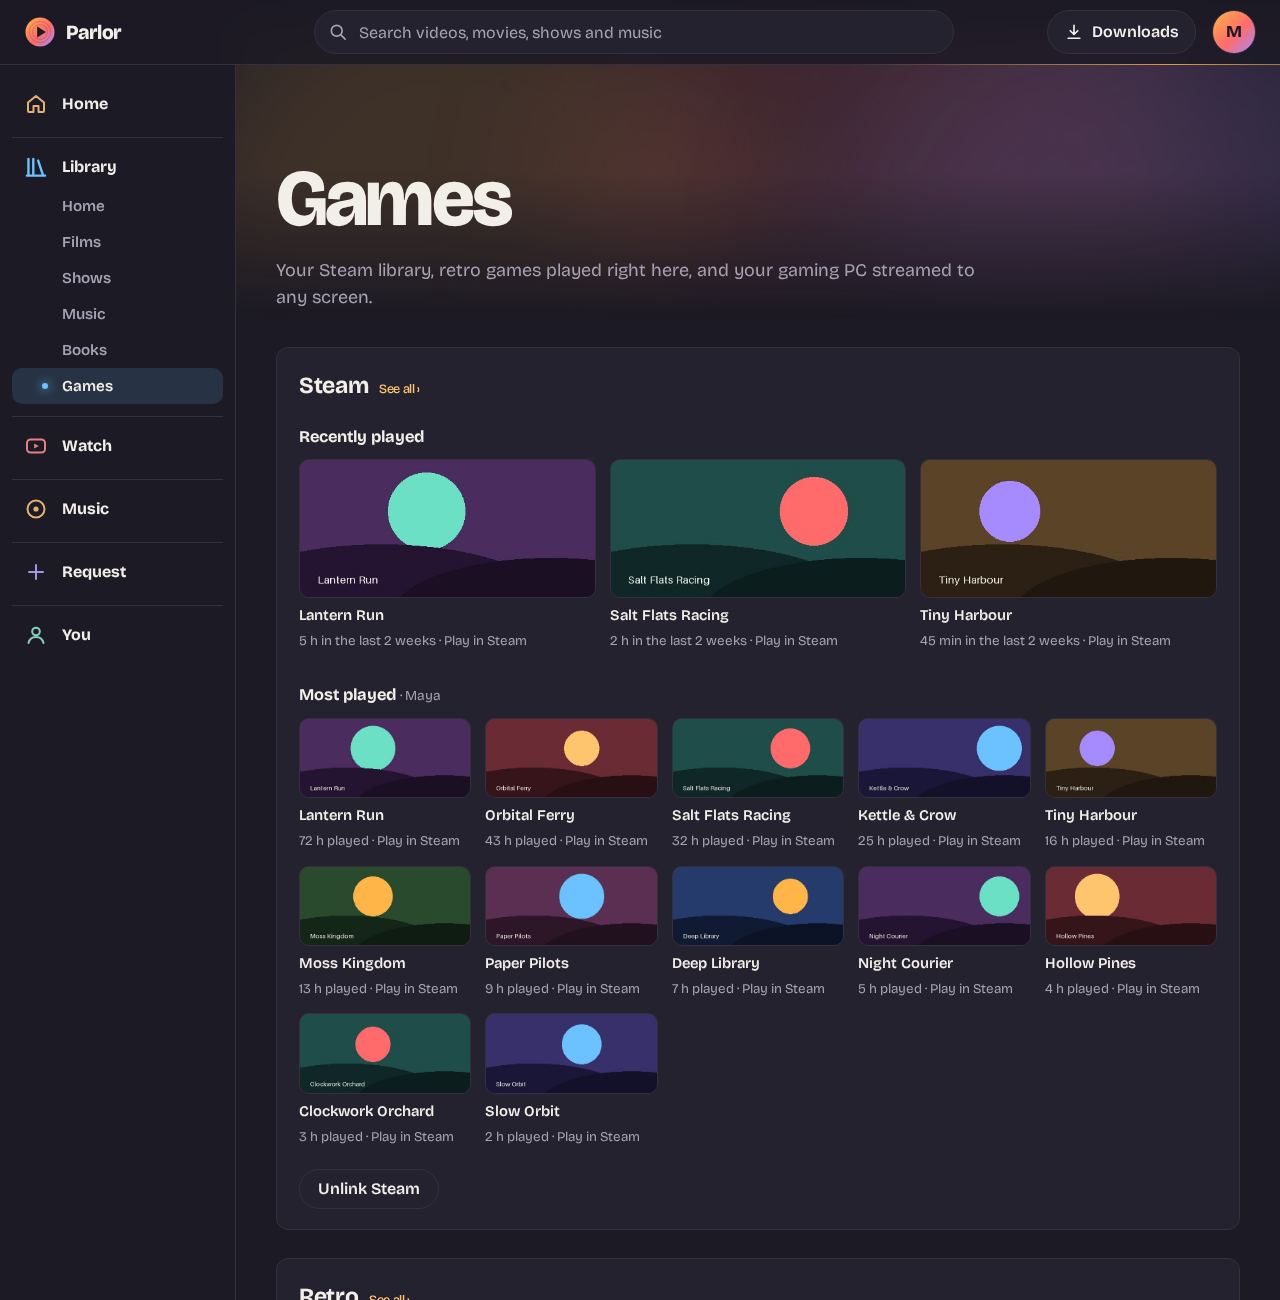
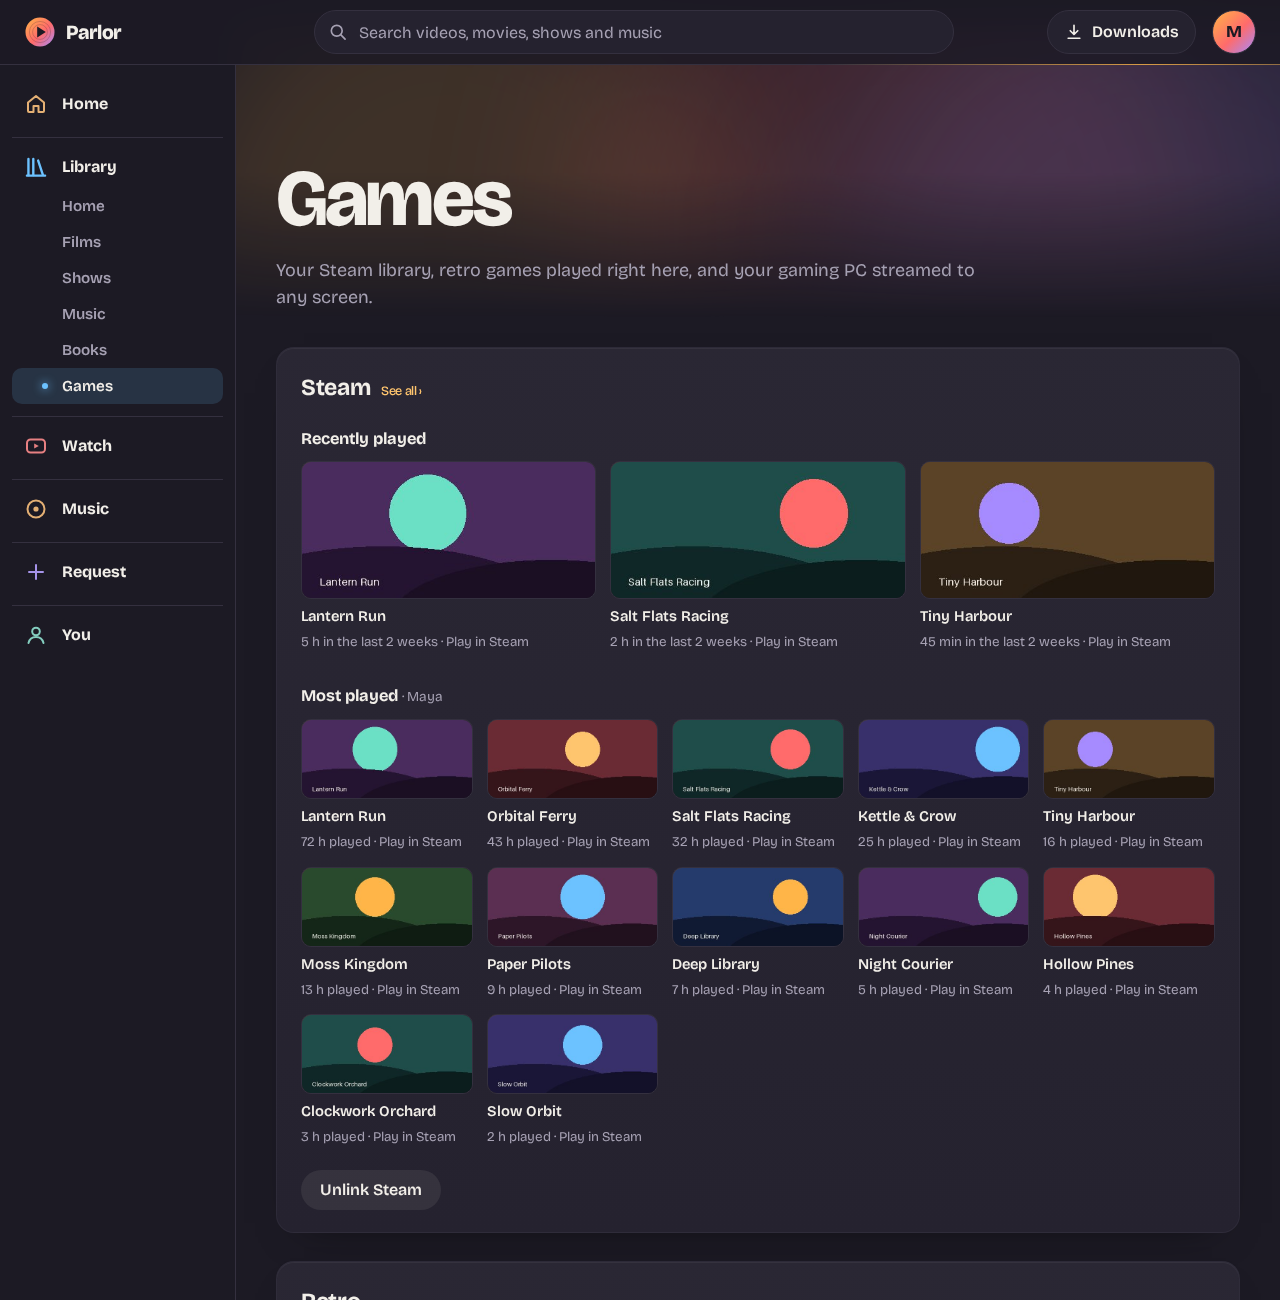
The phone and computer site in the TV's look: every card lifts and glows in its section's colour, buttons are tonal, tick boxes are switches, panels are soft cards, a page rises in as it opens, the phone's tab bar, player and queue float; light mode keeps 3:1, a picture that fails to load leaves its
Claude-Session: https://claude.ai/code/session_01Dqw49fkLDWJasjeWwvYwpP
Sampo-Task: T-0203
Unproven: docs, meaning, red

diff --git a/app/static/app.css b/app/static/app.css
@@ -1385,7 +1385,6 @@ body.docked .tvbar { bottom: 104px; }
 .setbar { display: flex; flex-wrap: wrap; align-items: end; gap: 12px 14px; margin: 26px 0 24px; padding: 14px 16px; border: 1px solid var(--line); border-radius: 12px; background: var(--raise); }
 .setbar label { display: grid; gap: 4px; font-size: .8rem; font-weight: 600; color: var(--dim); }
 .setbar label.check { display: flex; align-items: center; gap: 8px; height: 40px; font-size: .95rem; color: var(--text); }
-.setbar label.check input { width: 18px; height: 18px; accent-color: var(--accent); }
 .setbar .input { height: 40px; } .setbar input[type=number] { width: 6.5em; }
 .setbar .grow { flex: 1; } .setbar > strong { align-self: center; } .setbar > small { align-self: center; color: var(--dim); }
 .partof { display: flex; align-items: center; gap: 14px; margin-top: 28px; padding: 14px 18px; border: 1px solid var(--line); border-radius: 12px; background: var(--raise); width: fit-content; max-width: 100%; transition: border-color .2s ease; }
@@ -1406,3 +1405,85 @@ dialog.sheet h2 { margin: 0 0 6px; } dialog.sheet p { margin: 6px 0 0; } dialog.
 @media (prefers-reduced-motion: reduce) { .logotile, dialog.sheet[open] { animation: none; transition: none; } }
 .mpvnote { display: grid; gap: 10px; justify-items: center; text-align: center; color: #fff; } .mpvnote strong { font-size: 1.3rem; }
 .svc-ask { margin-top: 10px; } .svc-ask p { margin: 0 0 8px; font-size: .88rem; } .svc-ask p a { color: var(--link); text-decoration: underline; text-underline-offset: 3px; }
+
+/* ---------- the TV's look on a phone and a computer (T-0203) ----------
+   Every kind of card is the TV's tile: rounded art that lifts and glows in the section's colour under the pointer or the
+   keyboard, its caption brightening; buttons are solid, tick boxes are switches, panels are soft cards, the phone's tabs
+   float. Only transform, opacity and box-shadow move; all of it stops under reduced motion. */
+:root { --lift: cubic-bezier(.2, .8, .2, 1); --glow: 0 0 0 2px var(--accent), 0 18px 44px -10px color-mix(in oklab, var(--accent) 55%, transparent); }
+:is(.poster, .vthumb, .jart, .cover img, .cover .blank, .gcard .gart) { transition: transform .28s var(--lift), box-shadow .28s var(--lift); }
+.jcard.round .jart, .tile.artist .cover img { border-radius: 50%; }
+.cover img, .cover .blank { border-radius: var(--radius); }
+body:not(.tv) :is(.pcard:is(:hover, :focus-within) .poster, .vcard:is(:hover, :focus-within) .vthumb, .jcard:is(:hover, :focus-within) .jart,
+.tile:is(:hover, :focus-within) .cover :is(img, .blank), .gcard:is(:hover, :focus-within) .gart) { transform: translateY(-4px) scale(1.03); box-shadow: var(--glow); }
+/* a row that scrolls sideways clips what overflows it: room for the lift and the glow, the same place for the cards */
+:is(.strip, .vstrip, .pstrip, .jstrip) { padding: 12px 10px 28px; margin: -12px -10px -20px; scroll-padding-inline: 10px; }
+body:not(.tv) :is(.pcard:hover .poster img, .jcard:hover .jart img) { filter: none; transform: scale(1.04); }
+.vcard:hover .vthumb img { transform: none; }
+body:not(.tv) .cover:hover img { transform: translateY(-4px) scale(1.03); }
+:is(.pcard .t, .jcard .t, .tile .name, .vcard .vmeta > :first-child) { transition: color .2s ease; }
+body:not(.tv) :is(.pcard, .jcard, .tile, .vcard, .gcard):is(:hover, :focus-within) :is(.t, .name, .gname, .vmeta > :first-child) { color: var(--accent-ink, var(--accent)); }
+body:not(.tv) :is(.pcard, .jcard, .tile, .vcard, .gcard):active :is(.poster, .vthumb, .jart, .cover img, .gart) { transform: scale(.98); transition-duration: .1s; }
+:is(.poster, .vthumb, .jart, .cover) a:focus-visible { outline: none; }
+
+/* buttons: solid and tonal, never an outline */
+.ghost, .ghost-round { border-color: transparent; background: color-mix(in oklab, var(--text) 8%, transparent); transition: background-color .15s ease, transform .12s ease, color .15s ease; }
+.ghost:hover, .ghost-round:hover, .ghost-round[aria-expanded="true"] { border-color: transparent; background: color-mix(in oklab, var(--text) 14%, transparent); }
+.ghost:active, .ghost-round:active { transform: scale(.96); }
+.ghost.on { border-color: transparent; background: color-mix(in oklab, var(--accent) 20%, transparent); color: var(--accent-ink, var(--accent)); }
+.ghost.danger:hover { border-color: transparent; background: color-mix(in oklab, var(--bad) 18%, transparent); color: var(--bad); }
+
+/* tick boxes are switches */
+.check input[type="checkbox"], .field input[type="checkbox"] {
+  appearance: none; -webkit-appearance: none; flex: none; position: relative; width: 42px; height: 24px; min-height: 0; margin: 0; padding: 0;
+  border: 0; border-radius: 12px; background: color-mix(in oklab, var(--text) 18%, transparent); cursor: pointer; transition: background-color .2s ease; }
+.check input[type="checkbox"]::before, .field input[type="checkbox"]::before {
+  content: ""; position: absolute; left: 3px; top: 3px; width: 18px; height: 18px; border-radius: 50%; background: #fff;
+  box-shadow: 0 1px 4px rgb(0 0 0 / .35); transition: transform .22s var(--lift); }
+.check input[type="checkbox"]:checked, .field input[type="checkbox"]:checked { background: var(--accent-ink, var(--accent)); }
+.check input[type="checkbox"]:checked::before, .field input[type="checkbox"]:checked::before { transform: translateX(18px); }
+.check input[type="checkbox"]:focus-visible, .field input[type="checkbox"]:focus-visible { outline: 2px solid var(--accent); outline-offset: 2px; }
+/* light mode: the accents are bright for a dark ground; text and controls take a deeper mix (3:1 and up on white) */
+@media (prefers-color-scheme: light) {
+  :root { --accent-ink: color-mix(in oklab, var(--accent) 55%, var(--text)); }
+  .check input[type="checkbox"]:not(:checked), .field input[type="checkbox"]:not(:checked) { background: color-mix(in oklab, var(--text) 42%, transparent); }
+}
+.check input[type="checkbox"]:disabled { opacity: .5; cursor: default; }
+
+/* panels are soft cards; fields sit in the card's own ground */
+.tidy, .panel { border-color: color-mix(in oklab, var(--line) 60%, transparent); border-radius: 18px; padding: 22px 24px;
+  background: linear-gradient(180deg, color-mix(in oklab, var(--raise) 100%, var(--text) 3%), var(--raise));
+  box-shadow: 0 1px 0 color-mix(in oklab, var(--text) 6%, transparent) inset, 0 18px 40px -28px rgb(0 0 0 / .6); }
+.input, .field input:not([type="checkbox"]), .field select, .field textarea, select.input { border-radius: 12px; transition: border-color .15s ease, box-shadow .15s ease; }
+.input:focus, .field input:focus, .field select:focus, .field textarea:focus { box-shadow: 0 0 0 4px color-mix(in oklab, var(--accent) 22%, transparent); }
+
+/* a new page rises in (core.js paint) */
+@keyframes page-in { from { opacity: 0; translate: 0 10px; } }
+.page-in { animation: page-in .34s var(--lift) backwards; } /* backwards, not both: a filled translate would hold fixed children (the player, dialogs) to the page */
+
+@media (max-width: 760px) {
+  .nav { /* the tab bar floats over the page */
+    left: 10px; right: 10px; bottom: calc(10px + env(safe-area-inset-bottom)); padding: 6px; border: 1px solid color-mix(in oklab, var(--line) 70%, transparent);
+    border-radius: 22px; box-shadow: 0 16px 40px -12px rgb(0 0 0 / .6); }
+  .nav a { flex: 1; border-radius: 16px; transition: background-color .2s ease, color .2s ease; }
+  .nav a[aria-current] svg { transform: translateY(-1px); }
+  .toast { bottom: 96px !important; }
+  .dock-line { left: 16px; right: 16px; } /* the dock's corners are round now */
+  .qpanel { left: -1px; right: -1px; bottom: calc(100% + 9px); border-radius: 18px; border-bottom: 1px solid var(--line); } /* the queue floats over the dock, as wide */
+  /* what sits on the tab bar floats with it: the player, the TV and update bars */
+  .dock { left: 10px; right: 10px; bottom: calc(80px + env(safe-area-inset-bottom)); border: 1px solid color-mix(in oklab, var(--line) 70%, transparent);
+    border-radius: 18px; box-shadow: 0 16px 40px -14px rgb(0 0 0 / .6); }
+  .updatebar, .tvbar { bottom: calc(84px + env(safe-area-inset-bottom)); }
+  body.docked .updatebar, body.docked .tvbar { bottom: calc(160px + env(safe-area-inset-bottom)); }
+  body.docked main { padding-bottom: 210px !important; }
+}
+@media (prefers-reduced-motion: reduce) {
+  :is(.poster, .vthumb, .jart, .cover img, .cover .blank, .gcard .gart), .ghost, .ghost-round,
+  .check input[type="checkbox"], .check input[type="checkbox"]::before, .field input[type="checkbox"]::before { transition: none; }
+  .page-in { animation: none; }
+  body:not(.tv) :is(.pcard:is(:hover, :focus-within) .poster, .vcard:is(:hover, :focus-within) .vthumb, .jcard:is(:hover, :focus-within) .jart,
+  .tile:is(:hover, :focus-within) .cover :is(img, .blank), .cover:hover img, .gcard:is(:hover, :focus-visible, :focus-within) .gart,
+  .pcard:hover .poster img, .jcard:hover .jart img) { transform: none; } /* the same weight as the lifts above, and later */
+}
+body.tv :is(.poster, .vthumb, .jart, .cover img) { transition: none; } /* a TV keeps its own focus look (body.tv rules): the lifts above are off a TV only */
+img.broke { visibility: hidden; }

diff --git a/app/static/js/core.js b/app/static/js/core.js
@@ -264,7 +264,19 @@ let ticket = 0, current = "home";
    puts subnav() in its paint, and one that doesn't (a film, a player) hides it */
 const ROW = "<!--pages-->";
 const subnav = () => ROW;
-const paint = (t, html) => { if (t === ticket) { stage.innerHTML = html; $("#pages").hidden = !html.includes(ROW); } };
+addEventListener("error", (e) => { if (e.target instanceof HTMLImageElement) e.target.classList.add("broke"); }, true); // a picture that didn't load leaves its card's own ground, not a torn icon and its alt text
+addEventListener("load", (e) => { if (e.target instanceof HTMLImageElement) e.target.classList.remove("broke"); }, true); // one whose src changed and loaded shows again
+const paint = (t, html) => {
+  if (t !== ticket) return;
+  stage.innerHTML = html;
+  $("#pages").hidden = !html.includes(ROW);
+  if (paint.t === t || keepScroll || document.body.classList.contains("tv") || html.includes('class="reader"')) return; // a page rises in once, as it first opens: not
+  // as it redraws in place (keepScroll), not on a TV (its chip is slow), not a book's reader (fixed, and epub.js measures it at once)
+  paint.t = t;
+  stage.classList.remove("page-in");
+  void stage.offsetWidth;
+  stage.classList.add("page-in");
+};
 function page(name, fn, sectionName) { PAGES[name] = { fn, section: sectionName }; }
 function go(hash) {
   if (location.hash === hash) route();

diff --git a/app/static/js/remote.js b/app/static/js/remote.js
@@ -21,7 +21,7 @@ async function showTvs(t, [id, all] = []) {
   if (t !== ticket) return;
   tvKnown = tvs;
   tvBar();
-  paint(t, `<section class="home">${aurora}<h1>TVs</h1><p>Open Parlor on a TV at <b>${esc(location.origin)}/tv</b> (or the Android app on Android TV): it shows a code. Enter it here, and this account's phones and computers can play things on that TV and work it as a remote.</p></section>
+  paint(t, `<section class="home">${aurora}<h1>TVs</h1><p>Play things on a TV and work it from here, like a remote.</p></section>
     <div class="wrap tvs-page">
       <form class="panel tvadd" id="tvAdd"><h3>Add a TV</h3>
         <ol class="tvadd-ways"><li><b>A TV that shows Parlor already:</b> on the TV open <b>You → Add a remote</b> (or <b>Add someone</b> in Who's watching), then scan its square with this phone's camera or enter its code here.</li>

diff --git a/app/static/js/torrents.js b/app/static/js/torrents.js
@@ -81,7 +81,7 @@ async function pollTorrents(t) {
 async function showTorrents(t) {
   if (!ME?.admin) return paint(t, `<div class="wrap"><div class="empty-state">Only admins manage torrents.</div></div>`);
   Object.assign(tor, { rid: 0, list: {}, menu: null, limitsShown: false });
-  paint(t, `<section class="home">${aurora}<h1>Torrents</h1><p id="torSpeeds" class="dim">${SPIN}</p></section>
+  paint(t, `<section class="home">${aurora}<h1>Torrents</h1><p id="torSpeeds" class="dim">Asking qBittorrent…</p></section>
   <div class="wrap">
     <p class="notice" id="torError" hidden></p>
     <div class="chips page-actions">${T_FILTERS.map(([k, l]) => `<button data-tfilter="${k}"${k === tor.filter ? ' aria-pressed="true" class="on"' : ""}>${l}</button>`).join("")}

diff --git a/tests/ui_sweep.py b/tests/ui_sweep.py
@@ -19,6 +19,7 @@ from PIL import Image, ImageDraw  # noqa: E402
 from playwright.sync_api import sync_playwright  # noqa: E402
 
 OUT = rs.OUT
+TILES = ".pcard .poster, .vcard .vthumb, .jcard .jart, .tile .cover img, .gcard .gart"  # each kind of card's art
 WIDTHS = {"desk": (1366, 900, False), "tablet": (820, 1180, False), "phone": (390, 844, True)}
 THUMB = ("<svg xmlns='http://www.w3.org/2000/svg' viewBox='0 0 16 9'><defs><linearGradient id='g' x2='1' y2='1'><stop stop-color='%s'/>"
          "<stop offset='1' stop-color='%s'/></linearGradient></defs><rect width='16' height='9' fill='url(#g)'/></svg>")
@@ -133,6 +134,38 @@ def main():
                         bad.append(f"{label} {name}: {len(saw['rows'])} rows of page links: {saw['rows']}")
                     if saw["twice"]:
                         bad.append(f"{label} {name}: links the sidebar already shows: {saw['twice']}")
+                    # the TV's look (T-0203): a page rises in; tick boxes are switches; the phone's tab bar floats; a tile lifts and
+                    # glows under the pointer; under reduced motion none of it moves
+                    look = p.evaluate("""() => { const box = [...document.querySelectorAll('main .check input[type=checkbox], main .field input[type=checkbox]')]
+                        .filter((b) => b.offsetParent).find((b) => getComputedStyle(b).appearance !== 'none' || Math.abs(b.getBoundingClientRect().width - 42) > 1);
+                      return { rose: document.querySelector('#view').classList.contains('page-in'),
+                               box: box && { look: getComputedStyle(box).appearance, w: box.getBoundingClientRect().width, in: box.closest('[class]').className },
+                               bar: parseFloat(getComputedStyle(document.querySelector('.nav')).borderTopLeftRadius) }; }""")
+                    if not look["rose"]:
+                        bad.append(f"{label} {name}: the page didn't rise in")
+                    if look["box"]:  # every one on the page
+                        bad.append(f"{label} {name}: a tick box isn't a switch: {look['box']}")
+                    if mobile and look["bar"] < 16:
+                        bad.append(f"{label} {name}: the tab bar doesn't float (radius {look['bar']})")
+                    tile = p.locator(TILES).first
+                    if not mobile and tile.count() and tile.is_visible():
+                        tile.hover()
+                        p.wait_for_timeout(450)
+                        lift = tile.evaluate("""(e) => { const s = e.closest('.strip, .vstrip, .pstrip, .jstrip, .gshelf'), r = e.getBoundingClientRect(), b = s && s.getBoundingClientRect();
+                          return [getComputedStyle(e).transform, getComputedStyle(e).boxShadow, !s || (r.top >= b.top && r.left >= b.left - 1)]; }""")
+                        if lift[0] == "none" or lift[1] == "none":
+                            bad.append(f"{label} {name}: a tile doesn't lift and glow under the pointer: {lift}")
+                        if not lift[2]:
+                            bad.append(f"{label} {name}: a lifted tile is cut off by the row it scrolls in")
+                        if label == "desk":
+                            p.emulate_media(reduced_motion="reduce")
+                            p.wait_for_timeout(150)
+                            still = tile.evaluate("(e) => [getComputedStyle(e).transform, getComputedStyle(document.querySelector('#view')).animationName]")
+                            if still != ["none", "none"]:
+                                bad.append(f"{label} {name}: reduced motion still moves: {still}")
+                            p.emulate_media(reduced_motion="no-preference")
+                        p.mouse.move(0, 0)
+                        p.wait_for_timeout(300)
                     if name == "home":  # the rows stay put whatever the hero shows: its tallest form and its shortest
                         tall = """tvhHero({ title: 'Continue watching', accent: 'var(--amber)' }, { title: 'Spider-Man: Far From Home, the Extended Fan Cut', kind: 'Film',
                           meta: ['2019', '2h 9m', 'PG-13', 'Action · Adventure · Science Fiction'], over: 'Peter Parker and his friends go on a summer trip to Europe. '.repeat(6),
@@ -182,7 +215,7 @@ def main():
         for scheme in ("dark", "light"):
             sheet([name for name, *_ in PAGES], f"{label}-{scheme}")
     (OUT / "found.json").write_text(json.dumps(found, indent=1))
-    shots = len(list(OUT.glob("*-dark.png"))) + len(list(OUT.glob("*-light.png")))
+    shots = sum((OUT / f"{name}-{label}-{scheme}.png").exists() for name, *_ in PAGES for label in WIDTHS for scheme in ("dark", "light"))  # this run's, not a folder's leftovers
     print(f"{len(PAGES)} pages × {len(WIDTHS)} widths × 2 themes: {shots} screenshots in {OUT}")
     for line in bad:
         print("  ✗", line)

diff --git a/tests/readme_shots.py b/tests/readme_shots.py
@@ -289,6 +289,8 @@ def stock_sets():
 def set_picture(route):
     """what the image host would send: a poster with the title on it, or a studio's wordmark in the theme's ink"""
     url = route.request.url
+    if "/api/art?" in url:  # Parlor's own picture proxy, asked for the image host's picture
+        url = parse_qs(urlparse(url).query)["u"][0]
     path = "/" + url.rsplit("/", 1)[1]
     if path.startswith("/logo-"):
         kind, sid = path[6:-4].split("-")
@@ -493,6 +495,7 @@ def main():
             # Films & shows → Collections, with Seerr standing in from here on
             stock_sets()
             desk.context.route("https://image.tmdb.org/**", set_picture)
+            desk.context.route("**/api/art?u=https%3A%2F%2Fimage.tmdb.org*", set_picture)  # posters through Parlor's proxy (a broken one is hidden now)
             shoot(desk, "collections", "desktop", "#/sets", ".logogrid + .shelf-head + .logogrid img", tall=1200)
             shoot(desk, "request-all", "desktop", "#/set/collection/100", "#setGrid .pcard", lambda q: (
                 q.locator("#setAsk[open]").count() or q.click("#askAll"), q.wait_for_selector("#setAsk[open]"), q.wait_for_timeout(600)), tall=900)

diff --git a/tests/ui_pwa.py b/tests/ui_pwa.py
@@ -344,9 +344,10 @@ with sync_playwright() as pw:
     pp.screenshot(path=str(OUT / "queue-phone.png"))
     box = pp.locator("#queuePanel").bounding_box()
     print("phone sheet:", box, pp.locator("#dock").bounding_box(), pp.evaluate("[document.documentElement.scrollWidth, innerWidth]"))
-    checks["on a phone the queue is a sheet above the dock, no sideways scroll"] = (
-        pp.evaluate("document.documentElement.scrollWidth <= innerWidth + 1") and box["width"] >= 389
-        and box["y"] + box["height"] <= pp.locator("#dock").bounding_box()["y"] + 1)
+    dock = pp.locator("#dock").bounding_box()  # the dock floats off the edges on a phone (T-0203), and the sheet with it
+    checks["on a phone the queue is a sheet above the dock, as wide as it, no sideways scroll"] = (
+        pp.evaluate("document.documentElement.scrollWidth <= innerWidth + 1") and box["width"] >= dock["width"] - 1
+        and box["y"] + box["height"] <= dock["y"])
     b.close()
 
     # on plain http at a name other than this computer, Settings says install and offline need https, and no worker runs

diff --git a/DESIGN.md b/DESIGN.md
@@ -27,6 +27,19 @@ The app always shows a little movement, which carries information where it can:
 
 All of it stops under `prefers-reduced-motion`. Light mode follows the system.
 
+## Cards, buttons and forms (the TV's look everywhere)
+
+The phone and computer site use the TV's pieces, in one block at the end of `app.css` (T-0203):
+
+- **Every card is a TV tile:** posters, video cards, square music tiles and games are rounded art that lifts (`translateY(-4px) scale(1.03)`) under the pointer or the keyboard, with a 2 px ring and a glow in the section's colour; the caption turns that colour; a press sinks it (`scale(.98)`). Artists are round. A row that scrolls sideways leaves room (12 px above, 28 px below) so the lift and glow aren't cut off.
+- **Buttons are solid or tonal:** a ghost button is a soft fill of the text colour (8 %, 14 % on hover), never an outline; on, it takes the accent's tint.
+- **Tick boxes are switches** (42 × 24, the knob slides); **panels** are soft cards (18 px corners, a faint top light, a long soft shadow); a focused field gets a 4 px accent halo.
+- **A page rises in** (10 px and a fade, 0.34 s) as it first paints. `backwards`, not `both`: a held `translate` would make the page the containing block of the player and dialogs.
+- **On a phone the tab bar floats** 10 px off the edges with 22 px corners, and the player, TV and update bars float above it; the queue opens as a sheet 8 px over the player, as wide as it.
+- **Light mode:** the section colours are bright for a dark ground, so text and controls in them use `--accent-ink` (55 % accent, 45 % text), and an off switch is 42 % text: 3:1 and up on white.
+- **A picture that doesn't load** is hidden (`img.broke`), leaving the card's own ground, and shows again if its address changes and loads.
+- Only `transform`, `opacity`, `box-shadow` and colours move, and under reduced motion nothing does. A TV keeps its own focus look (the lifts are scoped to `body:not(.tv)`) and its pages don't rise in; neither does a page redrawn in place, nor a book's reader.
+
 ## Navigation
 
 One list (`NAV` in `app/static/js/nav.js`) draws all of it, so a new section or page is one entry:
